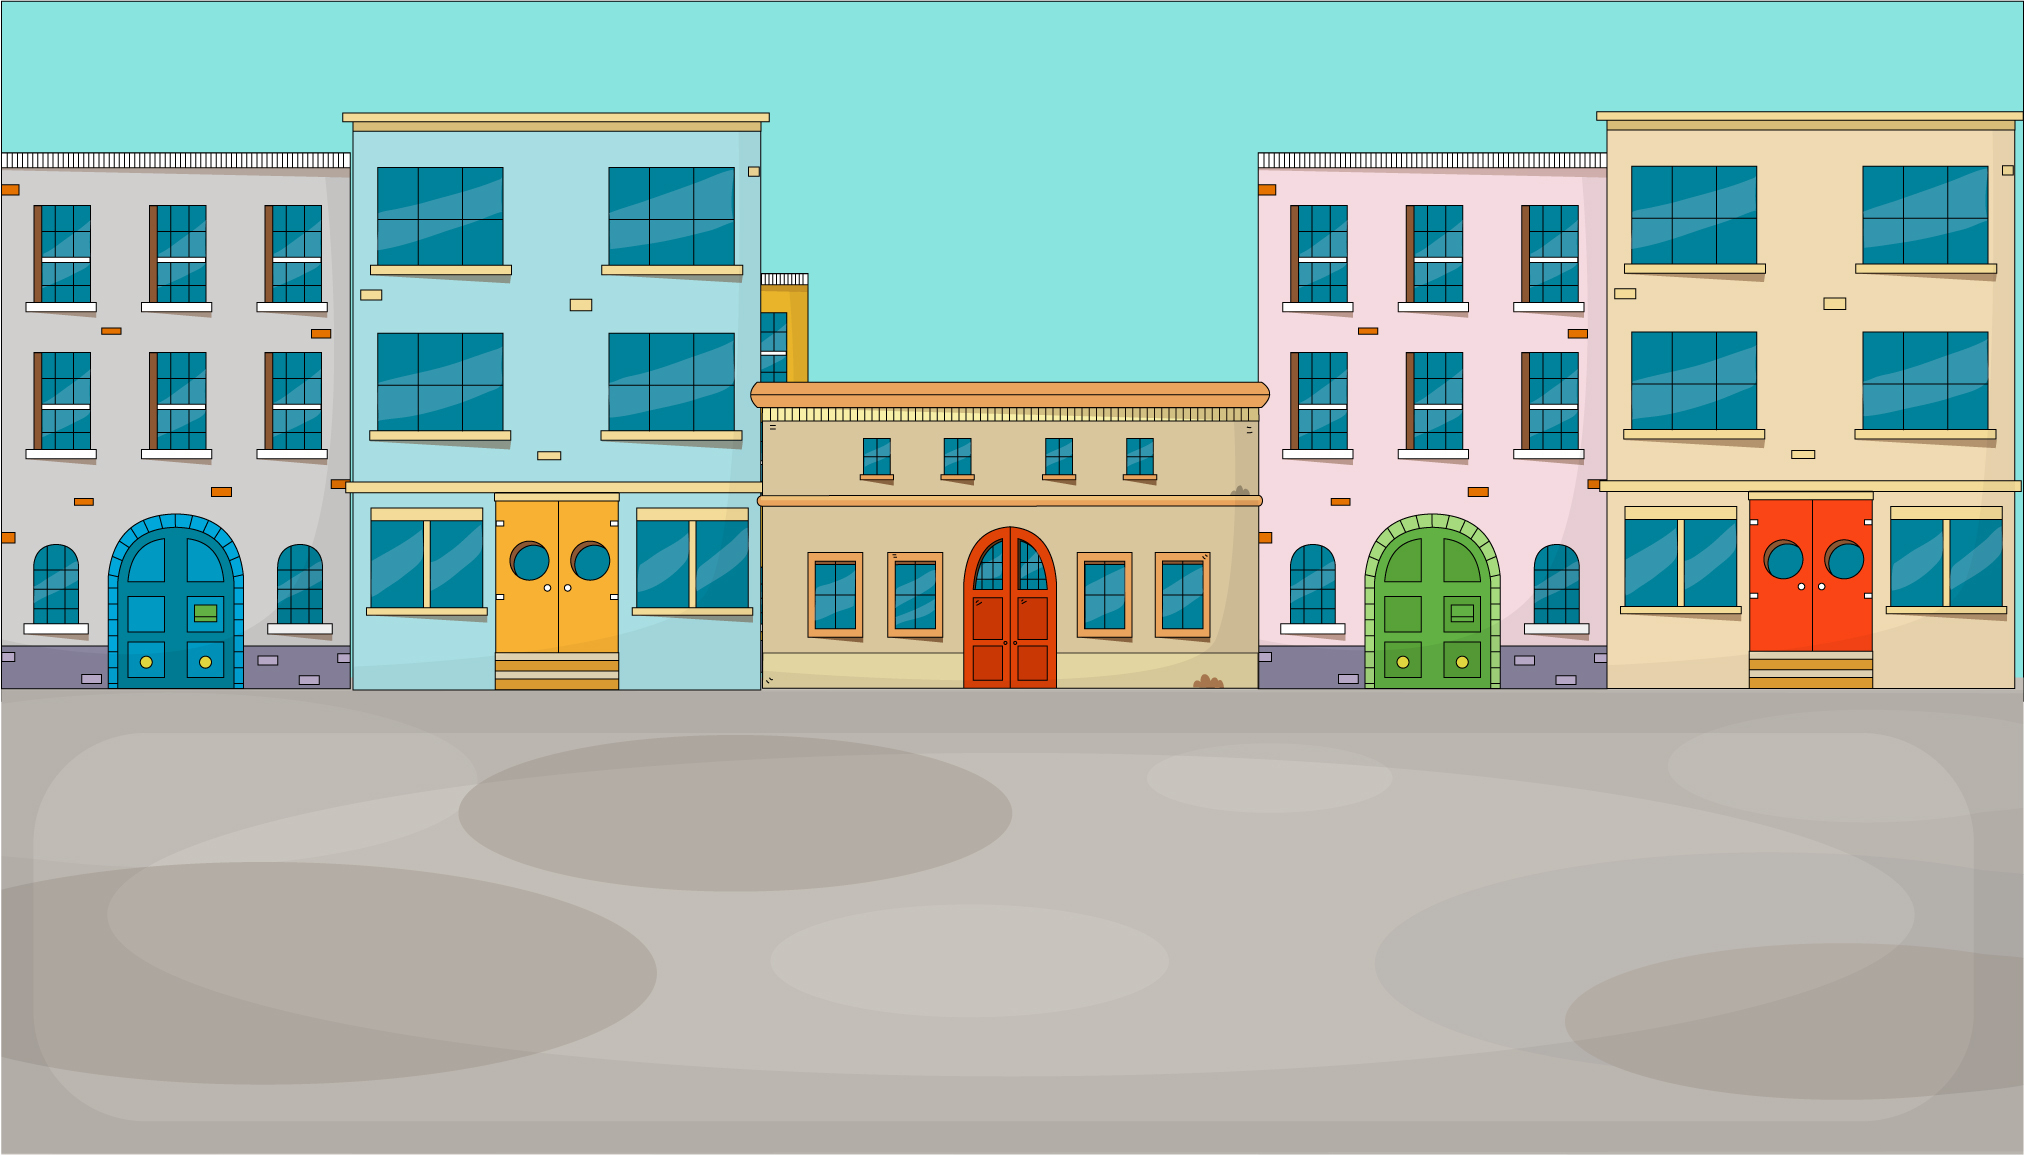
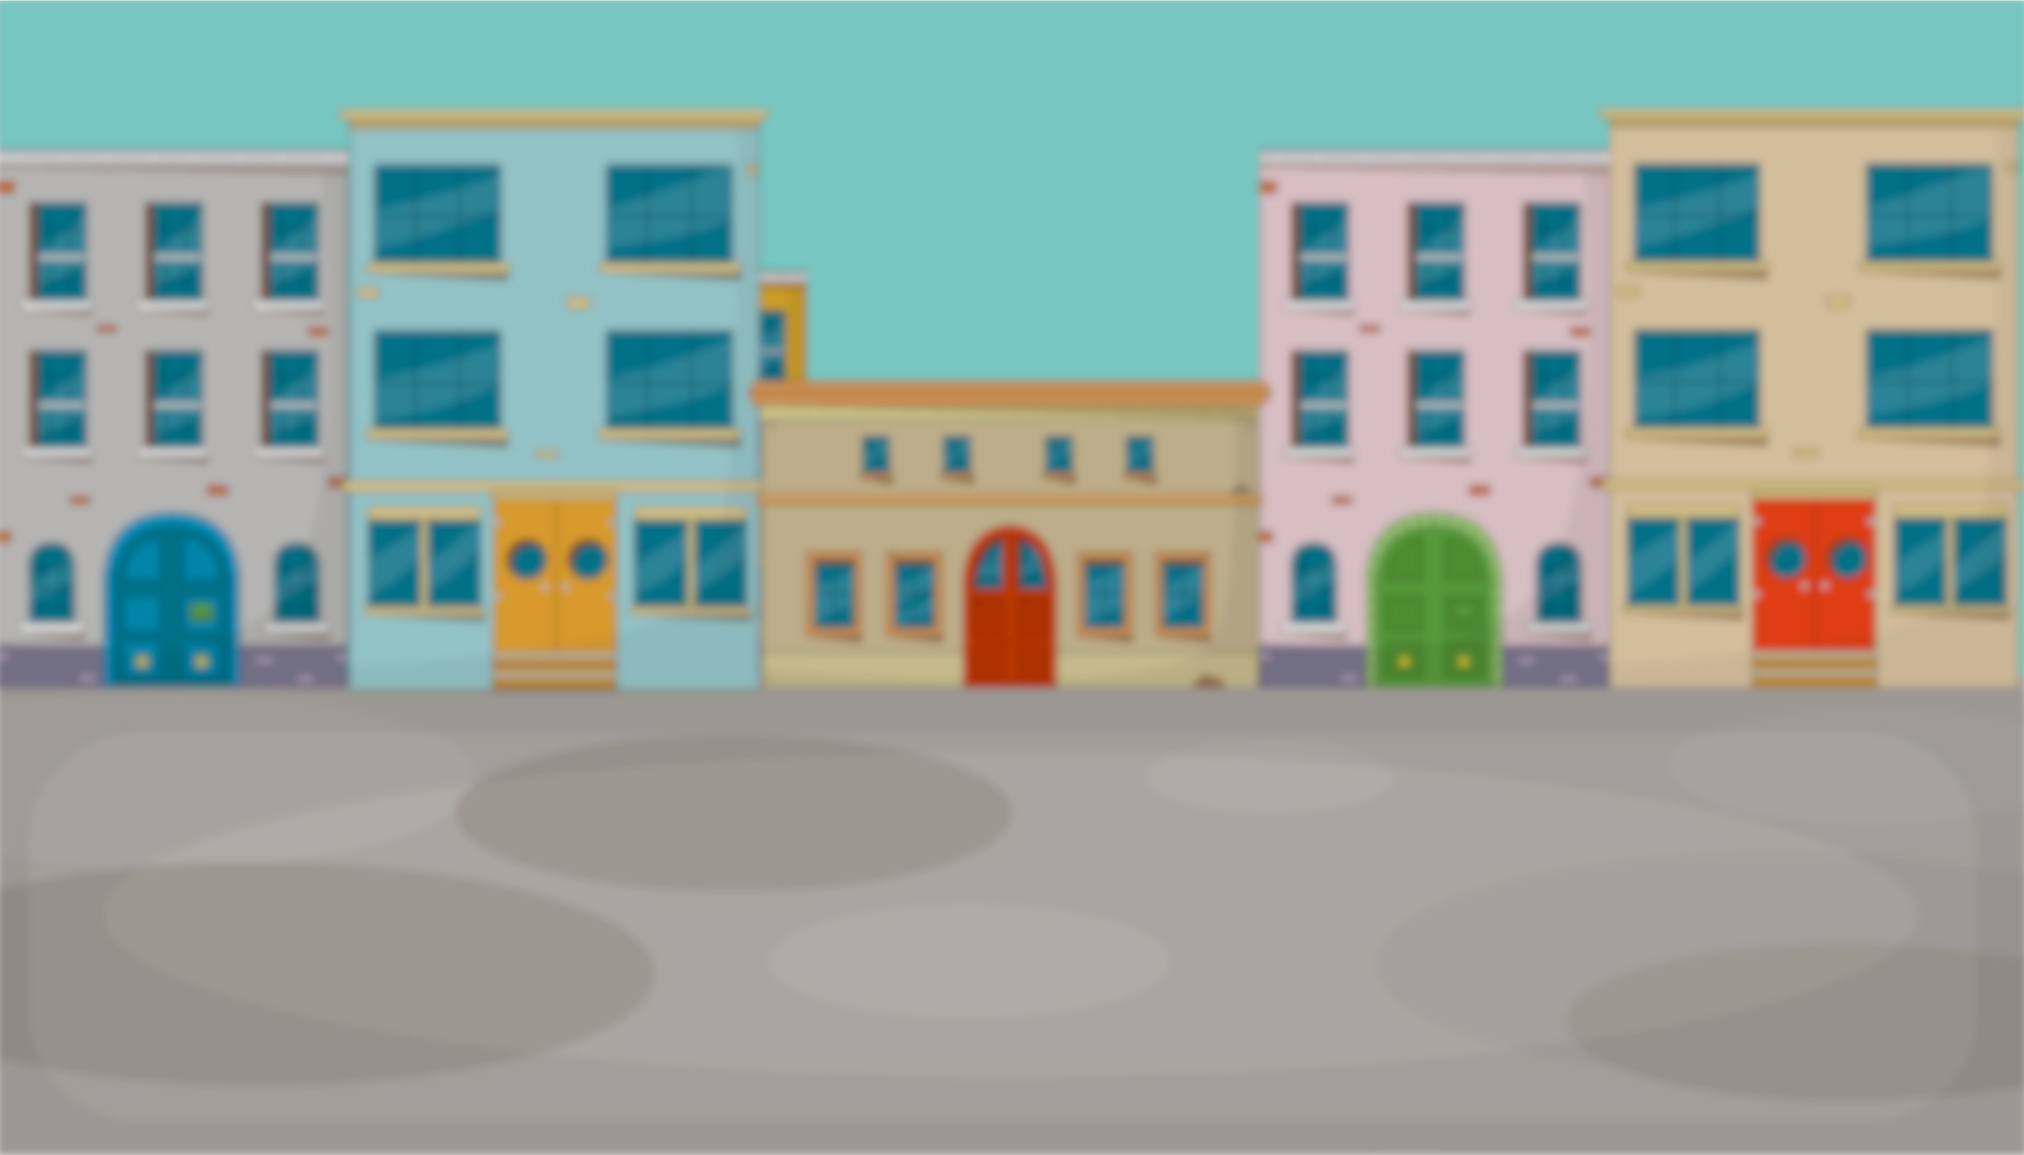
* Background Fix

diff --git a/index.js b/index.js
@@ -39,7 +39,7 @@ import confetti from 'https://cdn.skypack.dev/canvas-confetti';
     var height = 0;
 
     let  textureLoader = null;
-    let containerChido;
+    let container;
 
     let camera, scene, renderer;
     let cameraOrtho, sceneOrtho;
@@ -504,13 +504,15 @@ import confetti from 'https://cdn.skypack.dev/canvas-confetti';
     
     class Basura 
     {
-        constructor(_basuraId, _basuraType, _basuraTexture, scaleMulti = 1)
+        constructor(_basuraId, _basuraType, _basuraTexture, scaleMulti = 1, gold = false)
         {   
             this.basuraType = _basuraType;
             this.basuraId = _basuraId;
             this.isActive = false;
             this.basuraTexture = _basuraTexture;
             this.scaleMulti = scaleMulti;
+
+            this.isGold = gold;
 
             this.mapA = null;
 
@@ -574,12 +576,16 @@ import confetti from 'https://cdn.skypack.dev/canvas-confetti';
 
         setSelected()
         {
-            this.spriteChido.scale.set(1.2, 1.2, 1.2);
+            this.spriteChido.scale.set( this.scaleMulti + 0.2,
+                                        this.scaleMulti + 0.2, 
+                                        this.scaleMulti + 0.2);
         }
 
         setNotSelected()
         {
-            this.spriteChido.scale.set(1, 1, 1);
+            this.spriteChido.scale.set( this.scaleMulti, 
+                                        this.scaleMulti, 
+                                        this.scaleMulti);
         }
 
         setPositionSpawn()
@@ -957,8 +963,9 @@ loader.load(
 
     function init() 
     {
-        containerChido = document.createElement( 'div' );
-		document.body.appendChild( containerChido );
+        // container = document.createElement( 'div' );
+        container = document.getElementById("container");
+		document.body.appendChild( container );
 
         width = window.innerWidth;
         height = window.innerHeight;
@@ -1052,7 +1059,7 @@ loader.load(
         groupBasura.push(new Basura("basuraId_R_" + 7, BASURA_TYPE_RECICLABE, S_BASURA_CAJA, 1.6         ));
         groupBasura.push(new Basura("basuraId_R_" + 8, BASURA_TYPE_RECICLABE, S_BASURA_POPOTE       ));
     
-        groupBasura.push(new Basura("basuraId_B_" + 1, BASURA_TYPE_BASURA, S_BASURA_BUBBLE  ));
+        groupBasura.push(new Basura("basuraId_B_" + 1, BASURA_TYPE_BASURA, S_BASURA_BUBBLE, 1.5));
         groupBasura.push(new Basura("basuraId_B_" + 2, BASURA_TYPE_BASURA, S_BASURA_Manguera, 1.5));
         groupBasura.push(new Basura("basuraId_B_" + 3, BASURA_TYPE_BASURA, S_BASURA_AEROSOL ));
         groupBasura.push(new Basura("basuraId_B_" + 4, BASURA_TYPE_BASURA, S_BASURA_BATERIA ));
@@ -1469,7 +1476,7 @@ loader.load(
 
     function PlaySong() 
     {
-        return;
+        // return;
 
         // create a global audio source
         const sound = new THREE.Audio( audioListener );

diff --git a/index.htm b/index.htm
@@ -3,33 +3,57 @@
     <head>
 		<title>MiniGame Separar Basura</title>
 		<meta charset="utf-8">
-		<meta name="viewport" content="width=device-width, user-scalable=no, minimum-scale=1.0, maximum-scale=1.0">
+		<meta name="viewport" content="width=device-width, user-scalable=no, minimum-scale=1.0, maximum-scale=1.0, initial-scale=1">
 		<link type="text/css" rel="stylesheet" href="main.css">
 	</head>
-	
-    <body>
 
-		<div class="bgimage"></div>
-		<div id="container"></div>
-		
-		<div id="info"><!--abuelo-->
-			<div class="StatusInfo">
-				<img id="levelImage" src="Nivel1.png" width=400 height=20 align=center>
-				<div class="puntos"><p id="puntosLabel" style="text-align:center;" >0 </p></div>
+    <style>
+    body, html{
+		height: 100%;
+        margin: 0;
+
 				
+        }
+
+		* {
+		box-sizing: border-box;
+		}
+    </style>
+
+    <body>
+		
+        <div id="container">
+			<div  id="info"><!--abuelo-->
+				<!-- <a href="https://threejs.org" target="_blank" rel="noopener">three.js</a> - sprites -->
+				
+				<div class="StatusInfo">
+					<img id="levelImage" src="Nivel1.png" width=400 height=20 align=center>
+					<div class="puntos"><p id="puntosLabel" style="text-align:center;" >00000 </p></div>
+					
+				</div>
+				
+				<div class="inst"><font color="black" ><p style="text-align: center;  font-family: roboto; ">Coloca la basura en el cesto que corresponde:</p></font></div>
+				<div class="vidas"> <!--padre-->
+					<img id="vidaImage" src="Vida.png" width=85 height=90 align=center>
+					<div id="vidasLabel" class="Lives">5</div><!--hijo-->
+				</div>
+				<div class="logo">	<img src="logo.png" width=160 height=40 align=center> </div>
+				<div class="Time">0:00</div>
+				<!-- <div><button>Test</button></div> -->
+			
+				<div class="help">
+					<form action=""><!--Agregar a donde lleva este boton-->
+						<input id="ayuda" type="image" src="InfoIcon.png" alt="Submit"  width="55" height="55">
+					</form>
+				</div>
 			</div>
-            <div class="inst"><font color="black" ><p style="text-align: center;  font-family: roboto; ">Coloca la basura en el cesto que corresponde</p></font></div>
-            <div class="vidas"> <!--padre-->
-				<img id="vidaImage" src="Vida.png" width=85 height=90 align=center>
-				<div class="Lives" id="vidasLabel">5</div><!--hijo-->
-			</div>
-			<div class="logo">	<img src="logo.png" width=160 height=40 align=center> </div>
-			<div class="Time">0:00</div>
 		</div>
+        <!-- <script> src="./index.js"</script> -->
+        <!-- imagen    -->
 		
-		
+
         <div id="overlay">
-			<div id="text" style="font-size:600%;">GAME OVER</div>
+            <div id="text" style="font-size:600%;">GAME OVER</div>
             <div><button id="RetryButton">Intentar de nuevo</button></div>
         </div>
 

diff --git a/main.css b/main.css
@@ -1,13 +1,20 @@
 
 body {
+	background-image: url("Background.jpg");
+	height: 100%;
+
+	background-position: center;
+	background-repeat: no-repeat;
+	background-size: cover;
+
 	margin: 0;
-	background-color: #838383;
+	/*background-color: #f3f7f6;*/
 	color: #fff;
 	font-family: Monospace;
 	font-size: 13px;
+	/* font-weight: bold; */
 	line-height: 24px;
 	overscroll-behavior: none;
-	height: 100%;
 }
 
 a {
@@ -84,6 +91,7 @@ a, button, input, select {
 	justify-content: center;
 	flex-direction: column;
 	background: rgba(0,0,0,0.7);
+	font-family: robotoB;
 }
 
 	#overlay button {
@@ -124,6 +132,11 @@ a, button, input, select {
 	src: url(Roboto-Regular.ttf);
 	
   }
+  @font-face {
+	font-family: robotoB;
+	src: url(Roboto-Black.ttf);
+	
+  }
 
   #text{
 	position: absolute;
@@ -138,7 +151,7 @@ a, button, input, select {
 	position: absolute; 
 	right: 10%; 
 	top: 2%;
-	font-size:300%
+	font-size:300%;
 }
 .puntos{
 	position: absolute;
@@ -146,12 +159,14 @@ a, button, input, select {
 	right: 48%;
 	font-family: roboto;
 	font-size:300%;
+	
 }	
 
 .logo{
 	position: absolute;
 	top:  20px;
 	left: 0.5%;	
+	
 }
 .StatusInfo{
 	position: center;
@@ -165,7 +180,7 @@ a, button, input, select {
   	left: 50%;
   	transform: translate(-50%, -50%);
 	
-	font-size:200%
+	font-size:200%;
 	
 }
 .Lives
@@ -174,25 +189,32 @@ a, button, input, select {
 	right: 35px; 
 	top: 37%;
 	font-family: roboto;
-	font-size: 75%
+	font-size: 75%;
+	
 }
 .Time{
 	position: absolute; 
 	right: 50px; 
 	top: 35%;
 	font-family: roboto;
-	font-size:400%
+	font-size:400%;
+	
+}
+.help{
+	position: absolute;
+	top: 110%;
+	right: 1%;
+	z-index: index 3;
 }
 
-.bgimage 
-{
+.bg-image {
 	/* The image used */
-	/* background-image: url("Background.jpg"); */
-	/* background-color: #f00; */
+	/* position: relative; */
+	background-image: url("Background.jpg");
 	
 	/* Add the blur effect */
-	filter: blur(8px);
-	-webkit-filter: blur(8px);
+	filter: blur(5px);
+	-webkit-filter: blur(5px);
 	
 	/* Full height */
 	height: 100%; 
@@ -201,8 +223,4 @@ a, button, input, select {
 	background-position: center;
 	background-repeat: no-repeat;
 	background-size: cover;
-  }
-
-  * {
-	box-sizing: border-box;
   }
